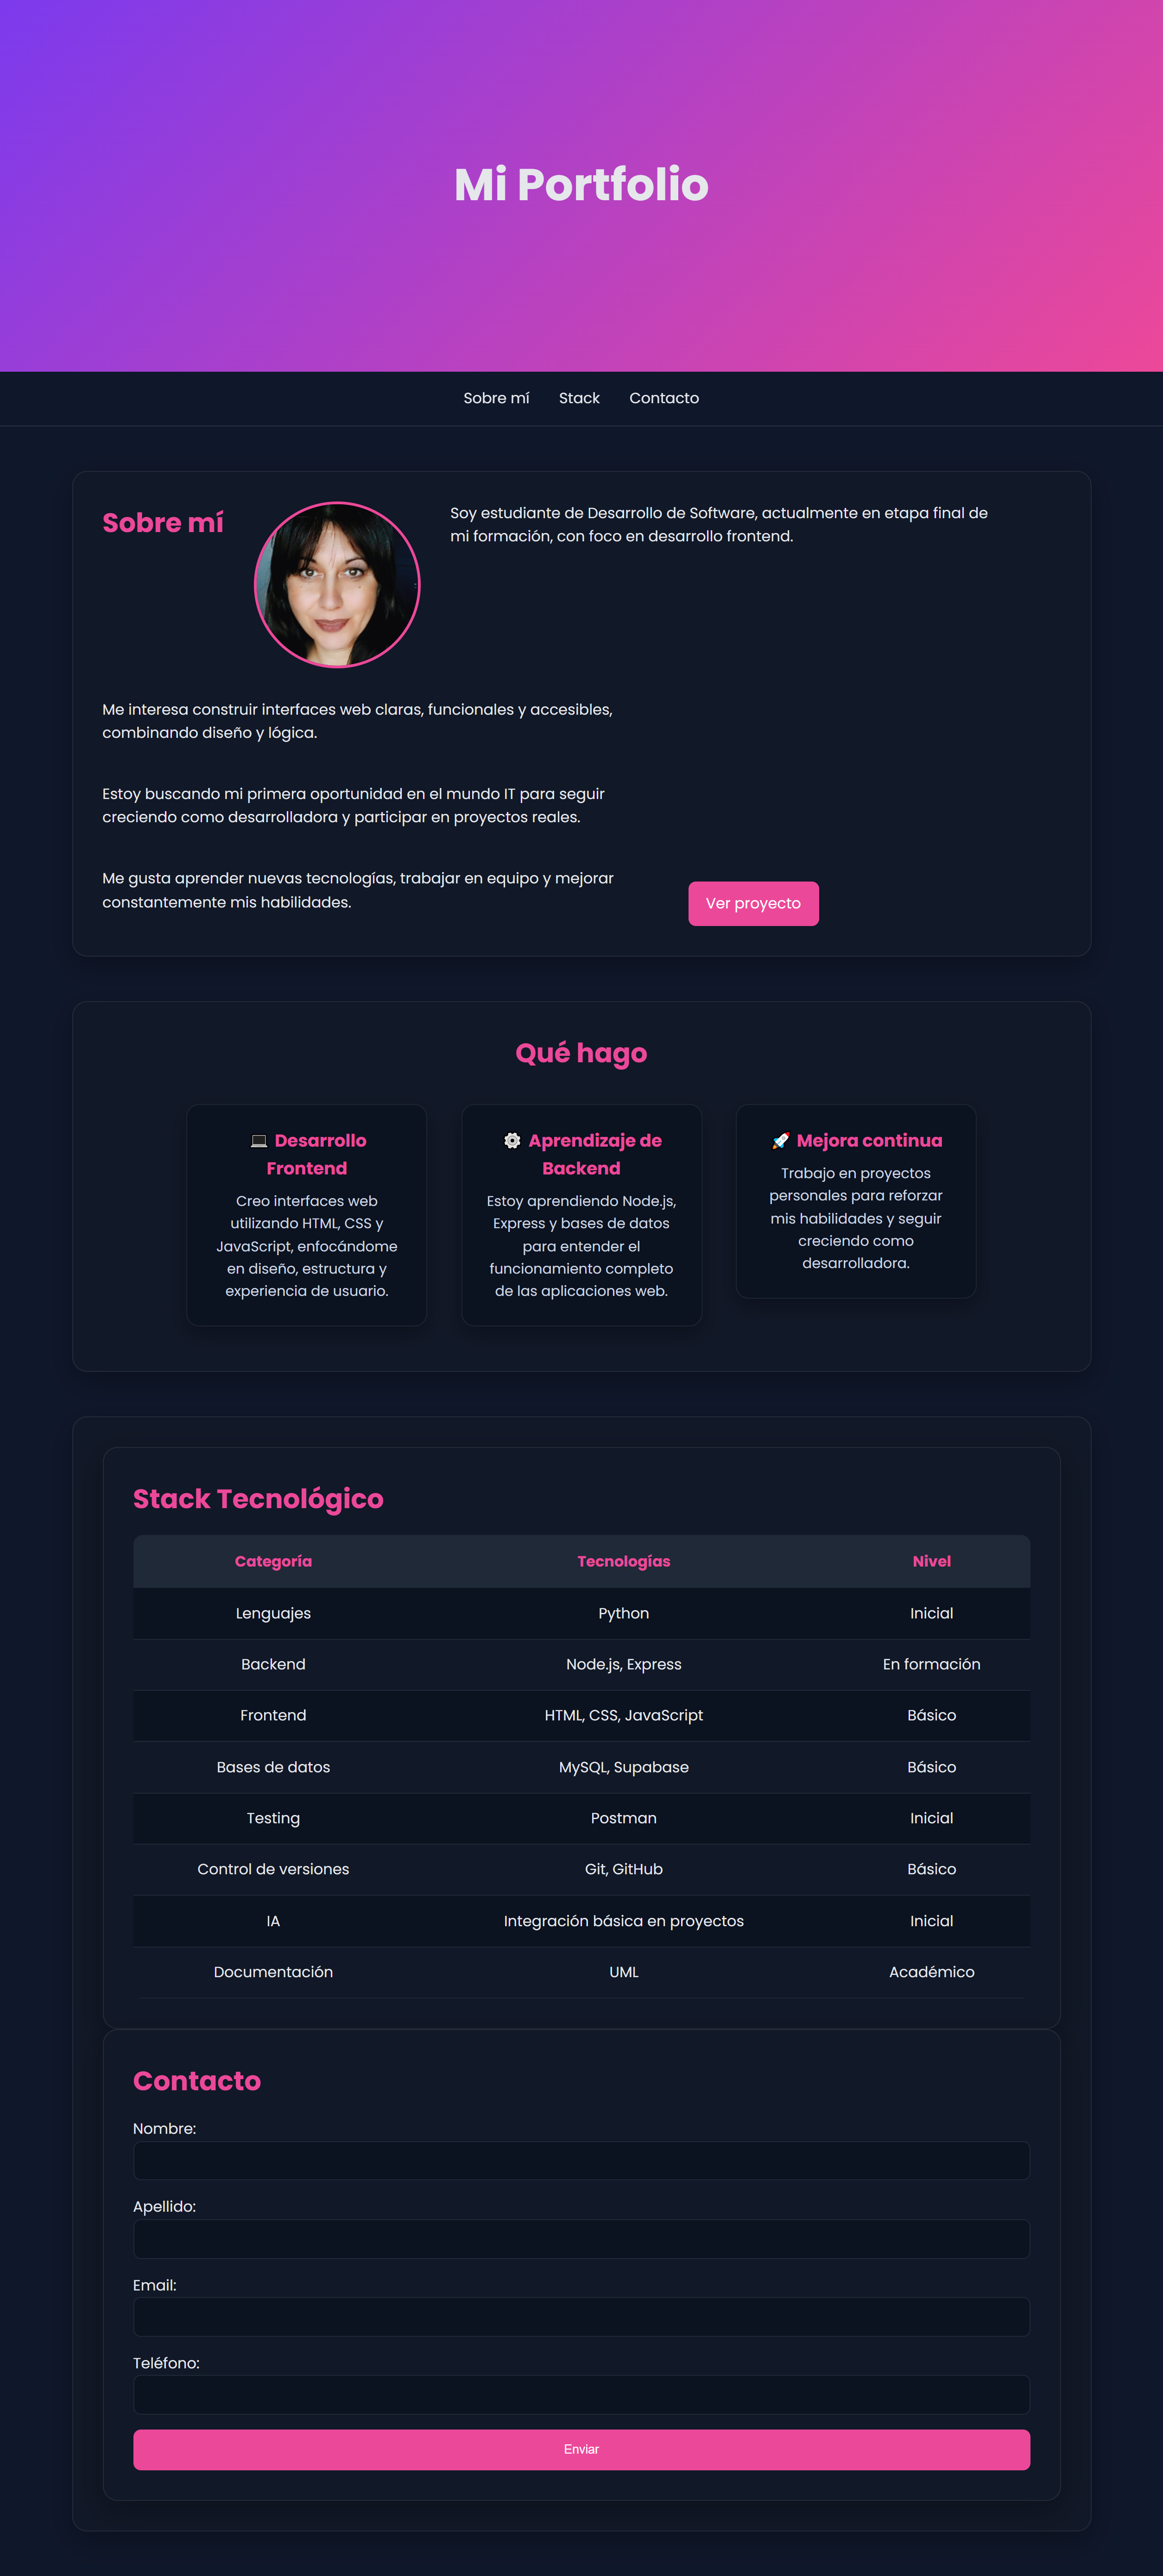
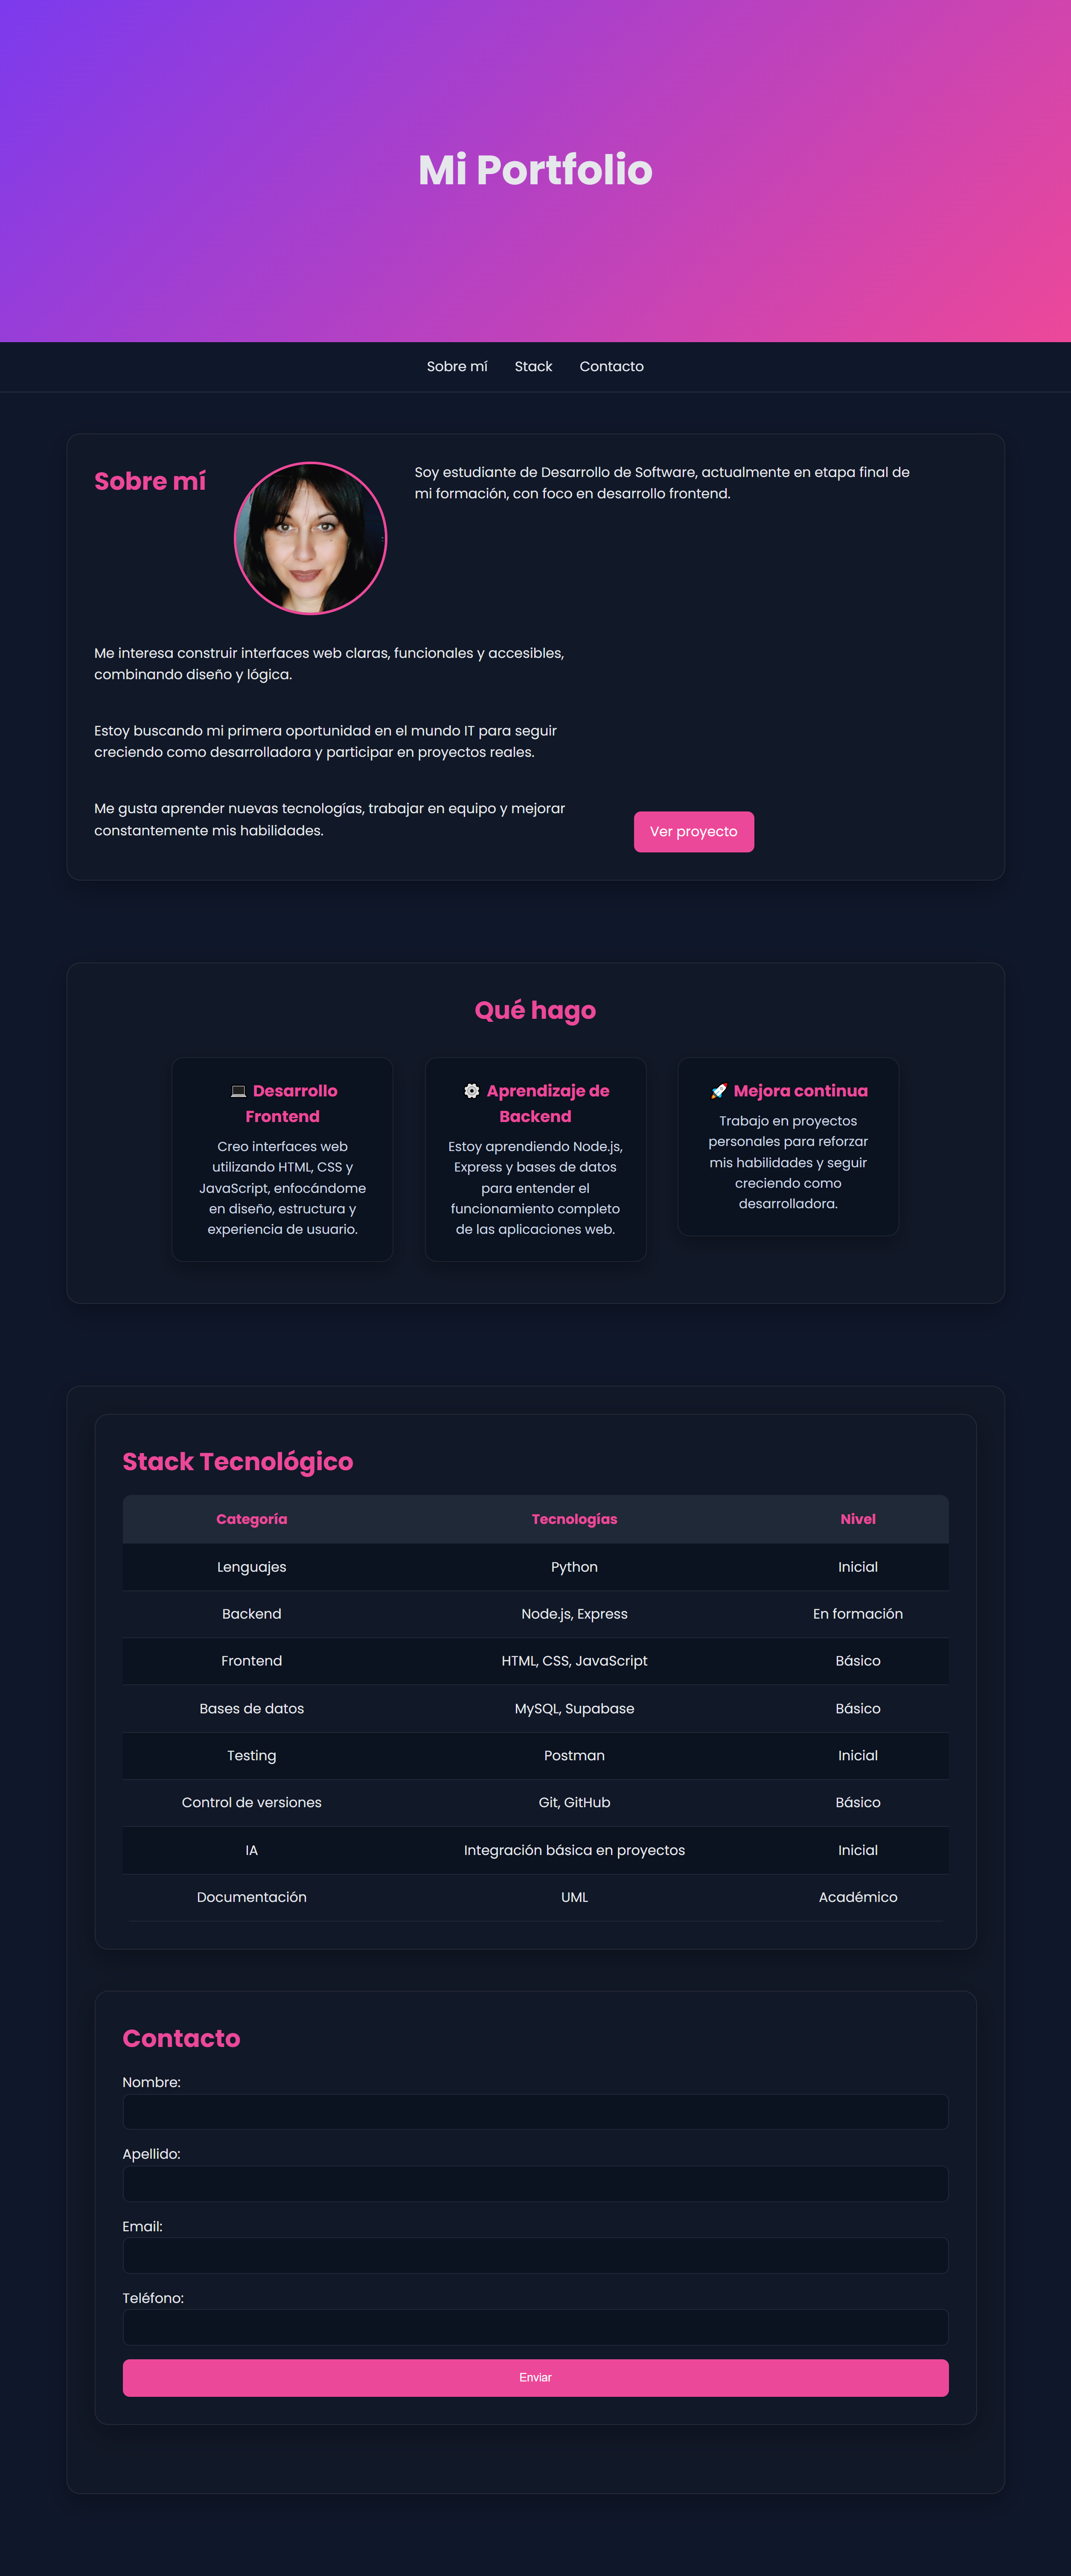
fix html estructura final

diff --git a/index.html b/index.html
@@ -6,10 +6,7 @@
     <meta name="viewport" content="width=device-width, initial-scale=1.0">
     <title>Portfolio de Marcela</title>
 
-    
     <link href="https://fonts.googleapis.com/css2?family=Poppins:wght@100;400;600;700&display=swap" rel="stylesheet">
-
-    
     <link rel="stylesheet" href="./css/styles.css">
 </head>
 
@@ -19,10 +16,10 @@
     <h1>Mi Portfolio</h1>
 </header>
 
-
 <nav>
     <ul>
         <li><a href="#sobre-mi">Sobre mí</a></li>
+        <li><a href="#que-hago">Qué hago</a></li>
         <li><a href="#stack">Stack</a></li>
         <li><a href="#contacto">Contacto</a></li>
     </ul>
@@ -30,64 +27,48 @@
 
 <main>
 
-    
+    <!-- SOBRE MI -->
     <section id="sobre-mi">
         <article>
-
             <h2>Sobre mí</h2>
 
             <img src="./assets/img/yo.png" alt="Foto de perfil">
 
-            <p>
-Soy estudiante de Desarrollo de Software, actualmente en etapa final de mi formación, con foco en desarrollo frontend.
-</p>
+            <p>Soy estudiante de Desarrollo de Software, actualmente en etapa final de mi formación, con foco en desarrollo frontend.</p>
 
-<p>
-Me interesa construir interfaces web claras, funcionales y accesibles, combinando diseño y lógica.
-</p>
+            <p>Me interesa construir interfaces web claras, funcionales y accesibles, combinando diseño y lógica.</p>
 
-<p>
-Estoy buscando mi primera oportunidad en el mundo IT para seguir creciendo como desarrolladora y participar en proyectos reales.
-</p>
+            <p>Estoy buscando mi primera oportunidad en el mundo IT para seguir creciendo como desarrolladora y participar en proyectos reales.</p>
 
-<p>
-Me gusta aprender nuevas tecnologías, trabajar en equipo y mejorar constantemente mis habilidades.
-</p>
+            <p>Me gusta aprender nuevas tecnologías, trabajar en equipo y mejorar constantemente mis habilidades.</p>
+
             <a href="https://github.com/marce-sanagua/mi-agenda" target="_blank">
                 Ver proyecto
             </a>
-
         </article>
     </section>
 
-     <section id="que-hago">
-    <h2>Qué hago</h2>
+    <!-- QUE HAGO -->
+    <section id="que-hago">
+        <h2>Qué hago</h2>
 
-    <div class="card">
-        <h3>💻 Desarrollo Frontend</h3>
-        <p>
-        Creo interfaces web utilizando HTML, CSS y JavaScript, enfocándome en diseño, estructura y experiencia de usuario.
-        </p>
-    </div>
+        <div class="card">
+            <h3>💻 Desarrollo Frontend</h3>
+            <p>Creo interfaces web utilizando HTML, CSS y JavaScript, enfocándome en diseño, estructura y experiencia de usuario.</p>
+        </div>
 
-    <div class="card">
-        <h3>⚙️ Aprendizaje de Backend</h3>
-        <p>
-        Estoy aprendiendo Node.js, Express y bases de datos para entender el funcionamiento completo de las aplicaciones web.
-        </p>
-    </div>
+        <div class="card">
+            <h3>⚙️ Aprendizaje de Backend</h3>
+            <p>Estoy aprendiendo Node.js, Express y bases de datos para entender el funcionamiento completo de las aplicaciones web.</p>
+        </div>
 
-    <div class="card">
-        <h3>🚀 Mejora continua</h3>
-        <p>
-        Trabajo en proyectos personales para reforzar mis habilidades y seguir creciendo como desarrolladora.
-        </p>
-    </div>
-</section>
-    
-    <section id="stack">
+        <div class="card">
+            <h3>🚀 Mejora continua</h3>
+            <p>Trabajo en proyectos personales para reforzar mis habilidades y seguir creciendo como desarrolladora.</p>
+        </div>
+    </section>
 
-   
+    <!-- STACK -->
     <section id="stack">
         <h2>Stack Tecnológico</h2>
 
@@ -109,7 +90,7 @@ Me gusta aprender nuevas tecnologías, trabajar en equipo y mejorar constantemen
         </table>
     </section>
 
-    
+    <!-- CONTACTO -->
     <section id="contacto">
         <h2>Contacto</h2>
 

diff --git a/css/styles.css b/css/styles.css
@@ -81,6 +81,7 @@ section {
     box-shadow: 0 10px 30px rgba(0,0,0,0.3);
     transition: 0.3s;
     width: 100%;
+    margin-bottom: 3rem;
 }
 
 section:hover {